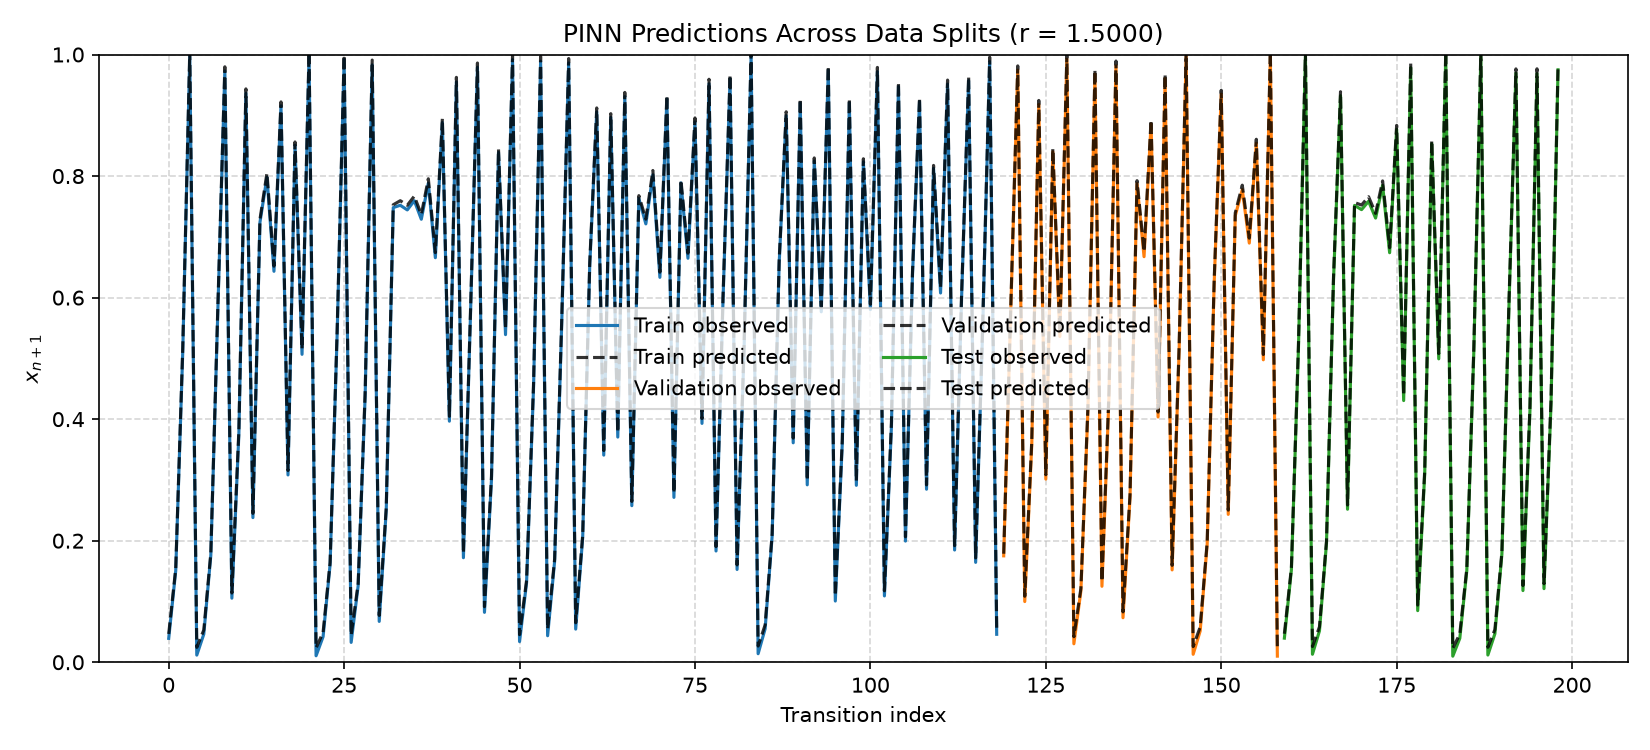
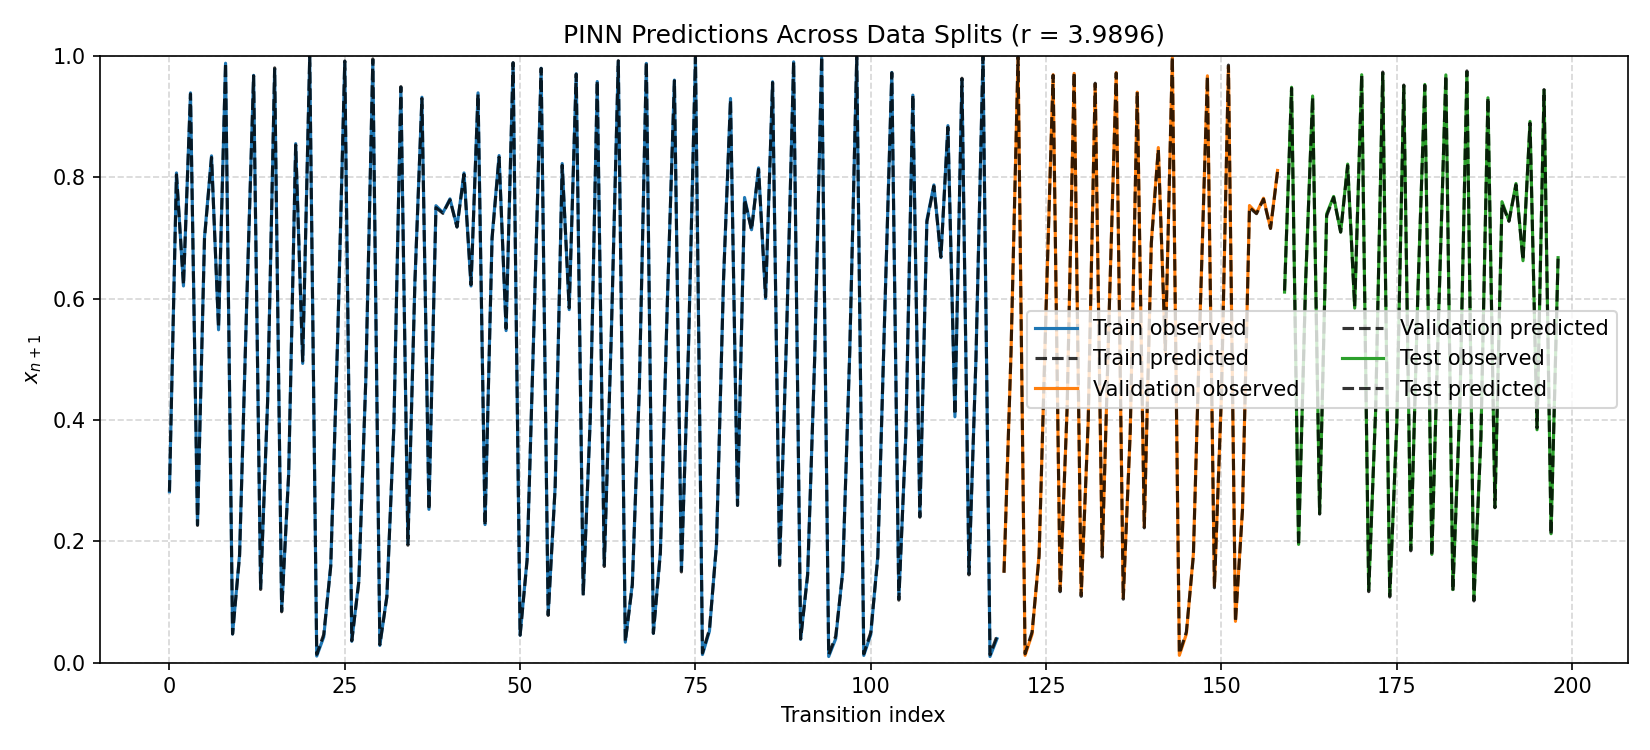
Updated discrete pinn

diff --git a/discrete_pinn/train_model.py b/discrete_pinn/train_model.py
@@ -4,6 +4,8 @@ import numpy as np
 import matplotlib.pyplot as plt
 from pathlib import Path
 from tqdm import tqdm
+import pandas as pd
+import os
 
 from model import PINN
 from physics_loss import LossCalc
@@ -19,12 +21,66 @@ def make_data_splits(x_trajectory, train_ratio=0.6, validation_ratio=0.2):
     train_end = int(train_ratio * n_samples)
     validation_end = int((train_ratio + validation_ratio) * n_samples)
 
+
     return (
         (x_current[:train_end], x_next[:train_end]),
         (x_current[train_end:validation_end], x_next[train_end:validation_end]),
         (x_current[validation_end:], x_next[validation_end:]),
     )
 
+def convert_data2pd(excel_filename="output_dir/dataset_splits.xlsx"):
+    """
+    Converts PyTorch data splits into Pandas DataFrames and saves them
+    into a multi-sheet Excel file.
+    """
+    logistic_map = LogisticMap(alpha=2)
+    x_trajectory = logistic_map.run_trajectory(initial_val=0.5, transient_state=1000, steady_state=200)
+    train_data, validation_data, test_data = make_data_splits(x_trajectory)
+    splits = {
+        "Train": train_data,
+        "Validation": validation_data,
+        "Test": test_data
+    }
+    
+    dfs = {}
+    combined_rows = []
+    
+    global_idx = 0
+    for split_name, (x_curr, x_next) in splits.items():
+        curr_arr = x_curr.squeeze().detach().cpu().numpy()
+        next_arr = x_next.squeeze().detach().cpu().numpy()
+        
+        df_split = pd.DataFrame({
+            "step_index": np.arange(len(curr_arr)),
+            "x_n": curr_arr,
+            "x_next_true": next_arr
+        })
+        dfs[split_name] = df_split
+        
+        for local_idx, (xn, xnext) in enumerate(zip(curr_arr, next_arr)):
+            combined_rows.append({
+                "global_index": global_idx,
+                "split": split_name,
+                "local_index": local_idx,
+                "x_n": xn,
+                "x_next_true": xnext
+            })
+            global_idx += 1
+
+    df_all = pd.DataFrame(combined_rows)
+    dfs["All"] = df_all
+
+    # Path resolution and auto-folder creation
+    excel_path = Path(excel_filename)
+    excel_path.parent.mkdir(parents=True, exist_ok=True)
+    
+    with pd.ExcelWriter(excel_path, engine="openpyxl") as writer:
+        df_all.to_excel(writer, sheet_name="All_Data", index=False)
+        for name in ("Train", "Validation", "Test"):
+            dfs[name].to_excel(writer, sheet_name=name, index=False)
+
+    print(f"Data successfully saved to {excel_path.resolve()}")
+    return dfs
 
 def evaluate(model, criterion, data):
     x_current, x_next = data
@@ -57,9 +113,7 @@ def plot_predictions(model, datasets, save_filename="output_dir/pinn_predictions
 
     plt.figure(figsize=(11, 5))
     offset = 0
-    for split_name, split_color, (observed, predicted) in zip(
-        split_names, split_colors, split_predictions
-    ):
+    for split_name, split_color, (observed, predicted) in zip(split_names, split_colors, split_predictions):
         steps = np.arange(offset, offset + len(observed))
         plt.plot(steps, observed, color=split_color, label=f"{split_name} observed")
         plt.plot(
@@ -88,16 +142,17 @@ def plot_predictions(model, datasets, save_filename="output_dir/pinn_predictions
 
 def train():
     # Setup data
-    logistic_map = LogisticMap(alpha=3.99)
-    x_trajectory = logistic_map.run_trajectory(initial_val=0.5, transient_state=100, steady_state=200)
+    logistic_map = LogisticMap(alpha=2)
+    x_trajectory = logistic_map.run_trajectory(initial_val=0.5, transient_state=1000, steady_state=200)
     train_data, validation_data, test_data = make_data_splits(x_trajectory)
     x_curr, x_next = train_data
+    x_curr_init = x_curr[0]
 
     # Instantiate Model, Loss, and Optimizer
     N_INPUT = 1
     N_HIDDEN = 16
     N_OUTPUT = 1
-    R_INIT = 1.5
+    R_INIT = 1.99
 
     model = PINN(N_INPUT, N_HIDDEN, N_OUTPUT, R_INIT)
     criterion = LossCalc()
@@ -111,10 +166,10 @@ def train():
         optimizer.zero_grad()
         
         # Forward pass: predict x_{n+1} from x_n
-        x_pred = model(x_curr)
+        x_next_pred = model(x_curr)
         
         # Compute combined loss
-        total_loss = criterion(x_curr, x_pred, x_next, model.r)
+        total_loss = criterion(x_curr_init, x_next_pred, x_next, model.r)
         
         # Backpropagation
         total_loss.backward()
@@ -126,6 +181,8 @@ def train():
                 "Val loss": f"{evaluate(model, criterion, validation_data):.5f}",
                 "Discovered r": f"{model.r.item():.4f}"
             })
+
+        x_curr_init = x_next_pred[0]
 
     test_loss = evaluate(model, criterion, test_data)
     plot_predictions(model, (train_data, validation_data, test_data))

diff --git a/discrete_pinn/physics_loss.py b/discrete_pinn/physics_loss.py
@@ -6,17 +6,18 @@ class LossCalc(nn.Module):
         super().__init__()
         self.mse = nn.MSELoss()
 
-    def forward(self, x_current: torch.Tensor, x_next_pred: torch.Tensor, 
-                x_next_true: torch.Tensor, r_param: torch.Tensor):
+    def forward(self, x_current_init: torch.Tensor, x_next_pred: torch.Tensor, x_next_true: torch.Tensor, r_param: torch.Tensor):
         
         # 1. Supervised Data Loss: Fit observed transitions
         data_loss = self.mse(x_next_pred, x_next_true)
         
         # 2. Discrete Physics Residual: Algebraic recurrence relation
-        # physics_residual = x_next_pred - r_param * x_current * (1.0 - x_current)
-        # physics_loss = torch.mean(physics_residual ** 2)
+        # Physcis loss takes x_next_pred and x_current_pred, it should uses prediction data entirely
+
+        physics_residual = x_next_pred - r_param * x_current_init * (1.0 - x_current_init)
+        physics_loss = torch.mean(physics_residual ** 2)
         
-        # total_loss = data_loss +  physics_loss
-        total_loss = data_loss
+        total_loss = data_loss +  physics_loss
+        
 
         return total_loss

diff --git a/discrete_pinn/logistic_map.py b/discrete_pinn/logistic_map.py
@@ -63,8 +63,8 @@ class LogisticMap:
         
         plt.figure(figsize=(9, 4))
         plt.plot(vals, 'o-', markersize=4, linewidth=1, color='teal')
-        plt.title(f"Logistic Map Trajectory ($\alpha = {alpha}$, $x_0 = {x0}$)")
         plt.xlabel("Iteration Step ($n$)")
+        plt.title(f"Logistic Map Trajectory ($\alpha = {alpha}$, $x_0 = {x0}$)")
         plt.ylabel(r"$x_n$")
         plt.grid(True, linestyle="--", alpha=0.5)
         plt.savefig(save_filename)

diff --git a/discrete_pinn/model.py b/discrete_pinn/model.py
@@ -9,7 +9,7 @@ class PINN (nn.Module):
 
     def __init__(self, N_INPUT, N_HIDDEN, N_OUTPUT,R_INIT):
         super().__init__()
-        # Use Tanh or GELU activations for smooth second derivatives!
+        
         self.net = nn.Sequential(
             nn.Linear(N_INPUT, N_HIDDEN), nn.Tanh(),
             nn.Linear(N_HIDDEN, N_HIDDEN), nn.Tanh(),

diff --git a/discrete_pinn/main.py b/discrete_pinn/main.py
@@ -1,10 +1,10 @@
 from train_model import train
-
+from train_model import convert_data2pd
 
 
 def main ():
 
-    trained_model = train()
+    data2panda = convert_data2pd()
     return 0
 
 
